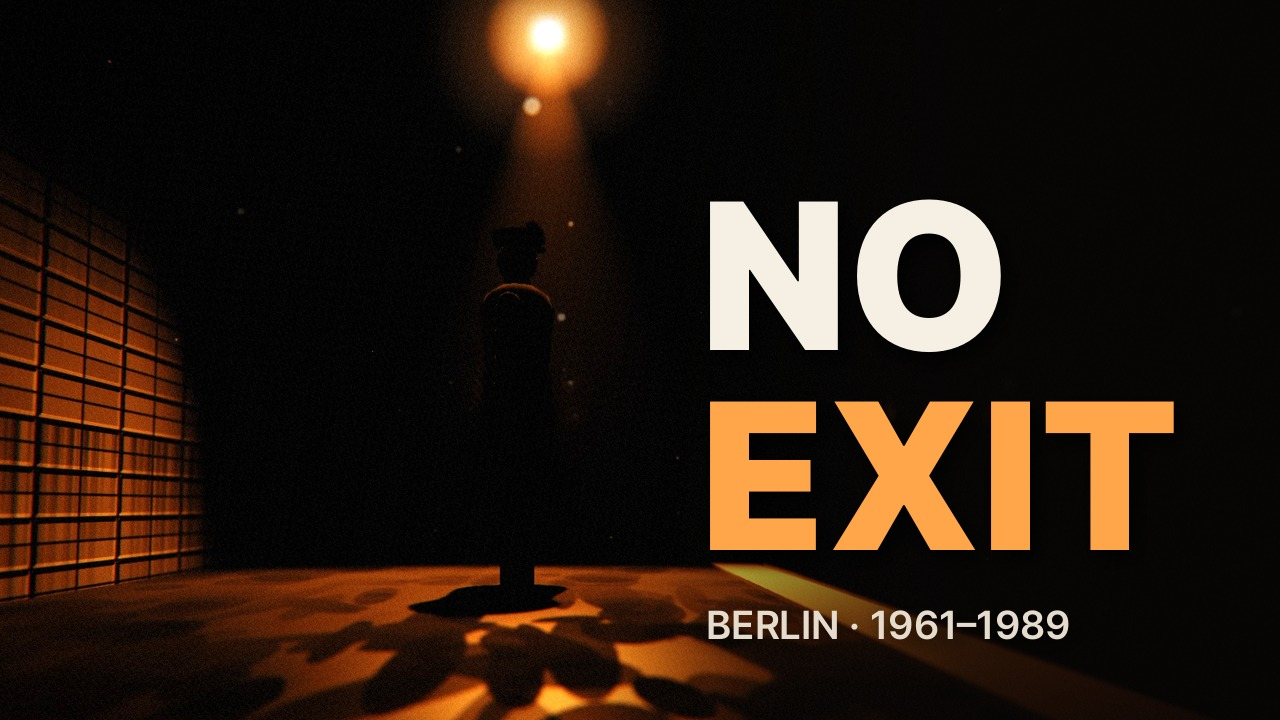
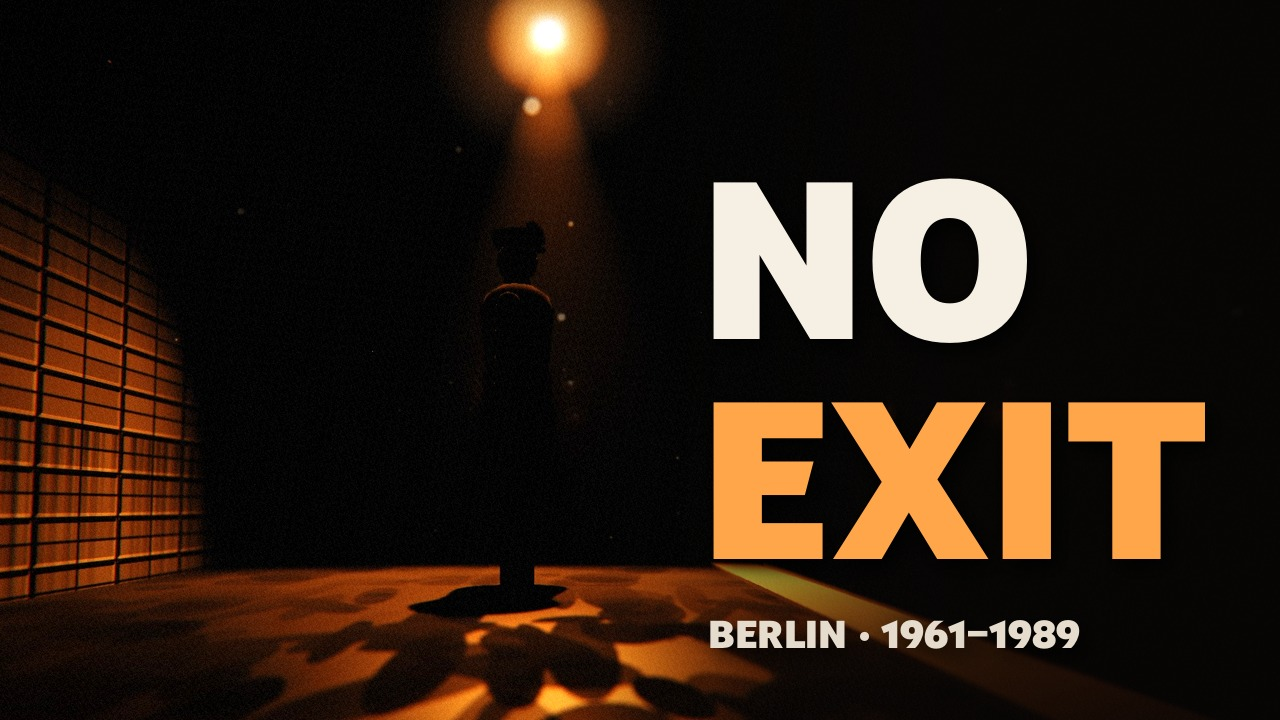
FP: YouTube Sans for English overlays/subtitles and thumbnail
Claude-Session: https://claude.ai/code/session_01RQhV6pt2JvfnqrDdz4fzCv

diff --git a/germany_shorts/longform/episodes/01_ghost_stations/make_script_en.py b/germany_shorts/longform/episodes/01_ghost_stations/make_script_en.py
@@ -227,7 +227,7 @@ say("In return for running its trains under East Berlin,")
 say("from 1963, West Berlin paid East Germany a fee. Every single month.", text={"kind": "year", "content": "1963"},
     sub="West Berlin paid East Germany. *Every month*")
 say("At first, around a hundred and eighty thousand marks a month.")
-say("By 1989, it was almost half a million.", text={"kind": "label", "content": "181,132 DM  →  495,756 DM / month", "pos": [0.5, 0.86]},
+say("By 1989, it was almost half a million.", text={"kind": "label", "content": "181,132 DM  {\\fnPretendard Black}→{\\fnYouTube Sans}  495,756 DM / month", "pos": [0.5, 0.86]},
     sub="By 1989: almost *half a million*")
 say("That's close to six million marks a year.")
 say("To run its own subway, the city was paying the country that built the Wall around it.",
@@ -238,7 +238,7 @@ say("West Berliners were furious, and they boycotted it.")
 say("The slogan: every S-Bahn ticket pays for the barbed wire.",
     text={"kind": "quote", "content": "„Der S-Bahn-Fahrer zahlt den Stacheldraht“", "pos": [0.5, 0.8]})
 say("Ridership collapsed, from half a million passengers a day to under fifty thousand.",
-    sub="Half a million a day → *under 50,000*")
+    sub="From half a million a day to *under 50,000*")
 say("And this wasn't even the first time that S-Bahn tunnel had died.", img(14, (1.05, 0.5, 0.5), (1.2, 0.5, 0.55)))
 say("On May 2nd, 1945, in the last days of the war, it was blown open and flooded.")
 say("Killed once by war, and once by the Wall.", sub="Killed once by *war*. Once by the *Wall*")
@@ -280,6 +280,7 @@ spec = {
     "voice": {"engine": "elevenlabs", "voice_id": "DrBEKFgWMDWUG6bjTSTk", "model": "eleven_v4", "stability": 0.5, "speed": 1.0},
     "gap": 0.12,
     "sub_limit": 44,
+    "fonts": {"SUB": "YouTube Sans", "LABEL": "YouTube Sans", "YEAR": "YouTube Sans", "FX": "YouTube Sans", "CREDIT": "YouTube Sans"},
     "music": [
         {"file": "music/m1_intro.mp3", "from": "intro", "to": "act1", "vol": 0.14, "fade_in": 4},
         {"file": "music/m2_investigate.mp3", "from": "act1", "to": "act3", "vol": 0.15},

diff --git a/germany_shorts/longform/episodes/02_tunnel29/make_script_en.py b/germany_shorts/longform/episodes/02_tunnel29/make_script_en.py
@@ -141,7 +141,7 @@ say("Dozens of people waiting in the East were arrested.")
 say("The three diggers escaped only by crawling back through the tunnel.", t3("crawl", 12), sub="The diggers escaped by *crawling back*",
     sfx={"prompt": "frantic crawling and breathing in a narrow tunnel, close, dirt falling", "len": 5, "vol": 0.35})
 say("Then, on August 17th, an eighteen-year-old named Peter Fechter was shot at the Wall.",
-    {"type": "black"}, text={"kind": "label", "content": "PETER FECHTER · 1944–1962", "pos": [0.5, 0.5]}, sub="August 17th: Peter Fechter, 18, was shot at the Wall")
+    {"type": "black"}, text={"kind": "label", "content": "PETER FECHTER · 1944{\\fnPretendard Black}–{\\fnYouTube Sans}1962", "pos": [0.5, 0.5]}, sub="August 17th: Peter Fechter, 18, was shot at the Wall")
 say("He bled to death at the foot of the Wall, in full view of the West, while nobody helped him.", sub="He bled to death *in full view of the West*")
 say("The diggers pinned his photo inside their tunnel. And kept digging.", t3("crawl", 18), sub="They pinned his photo in the tunnel. *And kept digging*", hold=1.0)
 
@@ -224,6 +224,7 @@ spec = {
     "voice": {"engine": "elevenlabs", "voice_id": "DrBEKFgWMDWUG6bjTSTk", "model": "eleven_v4", "stability": 0.5, "speed": 1.0},
     "gap": 0.12,
     "sub_limit": 44,
+    "fonts": {"SUB": "YouTube Sans", "LABEL": "YouTube Sans", "YEAR": "YouTube Sans", "FX": "YouTube Sans", "CREDIT": "YouTube Sans"},
     "music": [
         {"file": "music/t1_intro.mp3", "from": "intro", "to": "act1", "vol": 0.15, "fade_in": 3},
         {"file": "music/t2_dig.mp3", "from": "act1", "to": "flood", "vol": 0.14},
